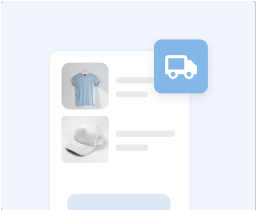
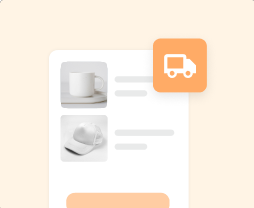
Update eCommerce Trial - My Plan page (#73068)
* update illustration

* Updated copy according to design

* Added translate call to premium themes text

diff --git a/client/my-sites/plans/current-plan/ecommerce-trial/index.tsx b/client/my-sites/plans/current-plan/ecommerce-trial/index.tsx
@@ -54,28 +54,32 @@ const ECommerceTrialCurrentPlan = () => {
 			buttonText: translate( 'Ask a question' ),
 		},
 		{
-			title: 'Premium themes',
-			text: 'Explore a diverse selection of beautifully designed premium themes.',
+			title: translate( 'Premium themes' ),
+			text: translate( 'Choose from a wide selection of beautifully designed themes.' ),
 			illustration: '/calypso/images/plans/wpcom/ecommerce-trial/premium-themes.svg',
 			showButton: true,
-			buttonText: 'Browse premium themes',
+			buttonText: translate( 'Browse premium themes' ),
 		},
 		{
-			title: translate( 'Advanced customization' ),
-			text: translate( "Change your store's appearance in a few clicks!" ),
+			title: translate( 'Simple customization' ),
+			text: translate(
+				"Change your store's look and feel, update your cart and checkout pages, and more."
+			),
 			illustration: '/calypso/images/plans/wpcom/ecommerce-trial/advanced-customization.svg',
 			showButton: true,
 			buttonText: translate( 'Design your store' ),
 		},
 		{
 			title: translate( 'Unlimited products' ),
-			text: translate( 'List as many products or services as you’d like and offer subscriptions.' ),
+			text: translate(
+				"Create as many products or services as you'd like, including subscriptions."
+			),
 			illustration: '/calypso/images/plans/wpcom/ecommerce-trial/unlimited-products.svg',
 			showButton: true,
 			buttonText: translate( 'Add a product' ),
 		},
 		{
-			title: translate( 'Jetpack features' ),
+			title: translate( 'Security & performance' ),
 			text: translate( 'Get auto real-time backups, malware scans, and spam protection.' ),
 			illustration: '/calypso/images/plans/wpcom/ecommerce-trial/jetpack-features.svg',
 			showButton: true,
@@ -92,18 +96,14 @@ const ECommerceTrialCurrentPlan = () => {
 		},
 		{
 			title: translate( 'Google Analytics' ),
-			text: translate(
-				'Understand visitors and traffic patterns in more depth with Google stats.'
-			),
+			text: translate( "See where your visitors come from and what they're doing on your store." ),
 			illustration: '/calypso/images/plans/wpcom/ecommerce-trial/google-analytics.svg',
 			showButton: true,
 			buttonText: translate( 'Connect Google Analytics' ),
 		},
 		{
 			title: translate( 'Best-in-class hosting' ),
-			text: translate(
-				'Hosting is included with your plan, eliminating additional cost and technical hassle.'
-			),
+			text: translate( 'We take care of hosting your store so you can focus on selling.' ),
 			illustration: '/calypso/images/plans/wpcom/ecommerce-trial/best-in-class-hosting.svg',
 			showButton: false,
 		},
@@ -117,32 +117,28 @@ const ECommerceTrialCurrentPlan = () => {
 	const whatsNotIncluded = [
 		{
 			title: translate( 'Launch your store to the world' ),
-			text: 'Lorem ipsum dolor sit amet, consectetur adipiscing elit. Duis quis magna ac odio ullamcorper efficitur.',
+			text: translate( 'Once you upgrade, you can publish your store and start taking orders.' ),
 			illustration: '/calypso/images/plans/wpcom/ecommerce-trial/launch.png',
 		},
 		{
-			title: translate( 'Access all premium themes' ),
-			text: 'Lorem ipsum dolor sit amet, consectetur adipiscing elit. Duis quis magna ac odio ullamcorper efficitur.',
-			illustration: '/calypso/images/plans/wpcom/ecommerce-trial/themes.png',
-		},
-		{
-			title: translate( 'Sell your products' ),
-			text: 'Lorem ipsum dolor sit amet, consectetur adipiscing elit. Duis quis magna ac odio ullamcorper efficitur.',
-			illustration: '/calypso/images/plans/wpcom/ecommerce-trial/money.png',
-		},
-		{
-			title: translate( 'Connect with your customers' ),
-			text: 'Lorem ipsum dolor sit amet, consectetur adipiscing elit. Duis quis magna ac odio ullamcorper efficitur.',
-			illustration: '/calypso/images/plans/wpcom/ecommerce-trial/email.png',
-		},
-		{
 			title: translate( 'Promote your products' ),
-			text: 'Lorem ipsum dolor sit amet, consectetur adipiscing elit. Duis quis magna ac odio ullamcorper efficitur.',
+			text: translate(
+				'Advertise and sell on popular marketplaces and social media platforms using your product catalog.'
+			),
 			illustration: '/calypso/images/plans/wpcom/ecommerce-trial/promote.png',
 		},
 		{
+			title: translate( 'Connect with your customers' ),
+			text: translate(
+				'Get access to email features that let you communicate with your customers and prospects.'
+			),
+			illustration: '/calypso/images/plans/wpcom/ecommerce-trial/email.png',
+		},
+		{
 			title: translate( 'Integrate top shipping carriers' ),
-			text: 'Lorem ipsum dolor sit amet, consectetur adipiscing elit. Duis quis magna ac odio ullamcorper efficitur.',
+			text: translate(
+				'Customize your shipping rates, print labels right from your store, and more.'
+			),
 			illustration: '/calypso/images/plans/wpcom/ecommerce-trial/shipping.png',
 		},
 	];
@@ -166,7 +162,7 @@ const ECommerceTrialCurrentPlan = () => {
 
 	return (
 		<>
-			<BodySectionCssClass bodyClass={ [ 'is-trial-plan' ] } />
+			<BodySectionCssClass bodyClass={ [ 'is-ecommerce-trial-plan' ] } />
 
 			<Card className="e-commerce-trial-current-plan__trial-card">
 				<div className="e-commerce-trial-current-plan__trial-card-content">
@@ -176,11 +172,11 @@ const ECommerceTrialCurrentPlan = () => {
 					<p className="e-commerce-trial-current-plan__card-subtitle">
 						{ isTrialExpired
 							? translate(
-									'Your free trial has expired. Sign up to a plan to unlock new features and keep your store running.'
+									'Your free trial has expired. Upgrade to a plan to unlock new features and start selling.'
 							  )
 							: translate(
-									'Your free trial will end in %(daysLeft)d day. Sign up to a plan by %(expirationdate)s to unlock new features and keep your store running.',
-									'Your free trial will end in %(daysLeft)d days. Sign up to a plan by %(expirationdate)s to unlock new features and keep your store running.',
+									'Your free trial will end in %(daysLeft)d day. Upgrade to a plan by %(expirationdate)s to unlock new features and start selling.',
+									'Your free trial will end in %(daysLeft)d days. Upgrade to a plan by %(expirationdate)s to unlock new features and start selling.',
 									{
 										count: eCommerceTrialDaysLeft,
 										args: {
@@ -191,10 +187,7 @@ const ECommerceTrialCurrentPlan = () => {
 							  ) }
 					</p>
 					<Button className="e-commerce-trial-current-plan__trial-card-cta" primary>
-						{
-							// TODO: translate when final copy is available
-							'Get Commerce'
-						}
+						{ translate( 'Upgrade now' ) }
 					</Button>
 				</div>
 				<div className="plans__chart-wrapper">
@@ -239,15 +232,12 @@ const ECommerceTrialCurrentPlan = () => {
 			</div>
 
 			<h2 className="e-commerce-trial-current-plan__section-title">
-				{ translate( 'Do you want more?' ) }
+				{ translate( 'Ready to start selling?' ) }
 			</h2>
 			<p className="e-commerce-trial-current-plan__section-subtitle">
-				{ translate( 'The free trial doesn’t support the following features.' ) }
-				<br />
-				{
-					// TODO: translate when final copy is available
-					'Get the most value out of WooCommerce and get Pro.'
-				}
+				{ translate(
+					'Upgrade your free trial to launch your store and get the next-level features you need to grow.'
+				) }
 			</p>
 
 			<div className="e-commerce-trial-current-plan__more-wrapper">
@@ -263,10 +253,7 @@ const ECommerceTrialCurrentPlan = () => {
 
 			<div className="e-commerce-trial-current-plan__cta-wrapper">
 				<Button className="e-commerce-trial-current-plan__cta is-primary">
-					{
-						// TODO: translate when final copy is available
-						'Enhance your store and get Commerce'
-					}
+					{ translate( 'Upgrade now' ) }
 				</Button>
 			</div>
 		</>

diff --git a/client/my-sites/plans/current-plan/ecommerce-trial/style.scss b/client/my-sites/plans/current-plan/ecommerce-trial/style.scss
@@ -1,6 +1,6 @@
 @import "@wordpress/base-styles/breakpoints";
 
-body.is-section-plans.is-trial-plan {
+body.is-section-plans.is-ecommerce-trial-plan {
 
 	&.color-scheme {
 		--color-surface-backdrop: var(--color-surface);
@@ -89,6 +89,7 @@ body.is-section-plans.is-trial-plan {
 			text-align: center;
 			font-size: $font-body;
 			color: var(--color-neutral-40);
+			padding: 0 25%;
 
 			@media (max-width: $break-mobile) {
 				text-align: left;
